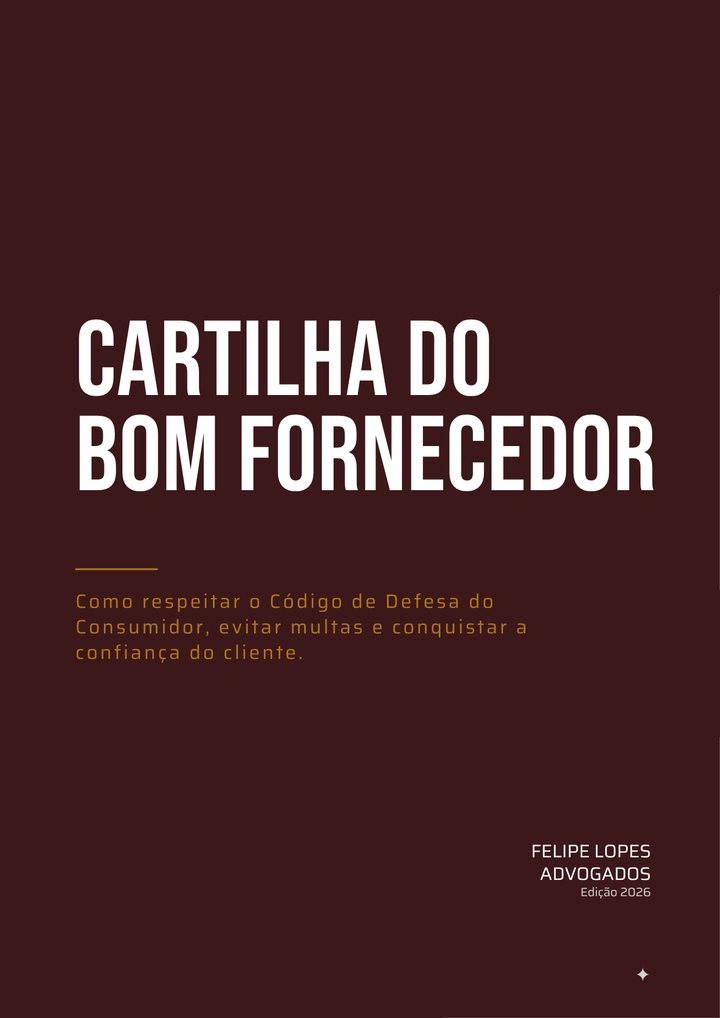
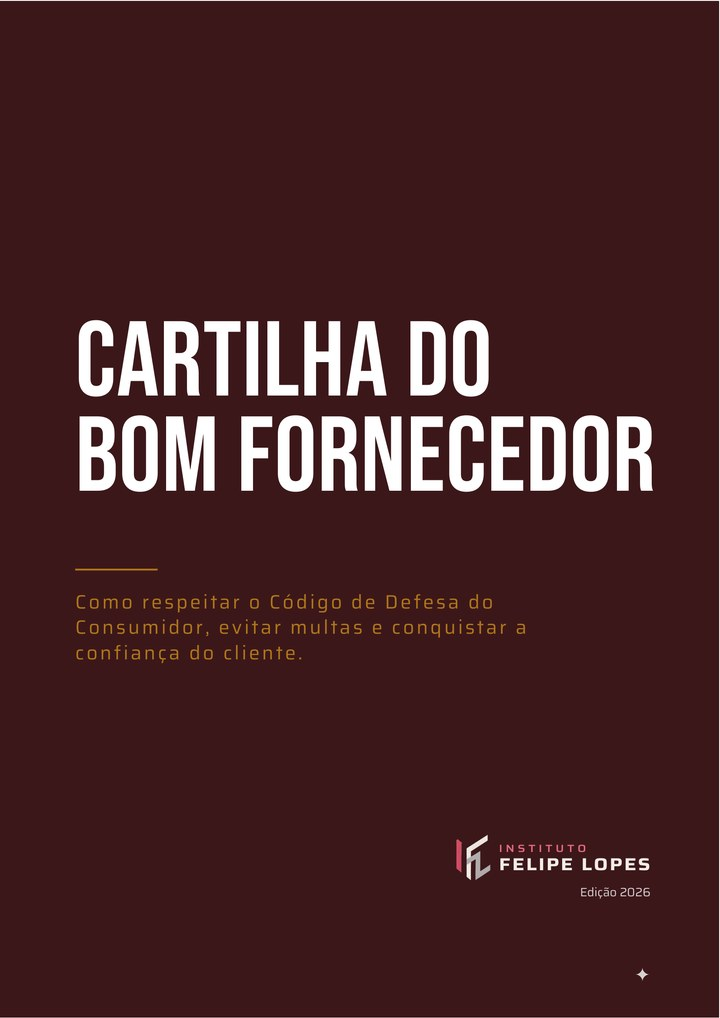
Capas do site com a marca Instituto Felipe Lopes no lugar dos autores
Claude-Session: https://claude.ai/code/session_01VYLCid41eqht9uMoaqD9Ab

diff --git a/CLAUDE.md b/CLAUDE.md
@@ -27,7 +27,7 @@ Para um novo PDF: adicionar em `PRODUTOS` (tipo `pdf`, campo `arquivo`), criar a
   - `termos.html`, `privacidade.html`: **minutas**, revisar antes de publicar.
 - `assets/estilo.css`: estilo único em **preto e vinho institucional #3A1A1D** (decidido em 11/10/2026): fundo da página preto com grade sutil (seções sem classe, hero, contato), seções lisas (`.nevoa`, `.escuro`) e rodapé no vinho #3A1A1D, cartões em preto avinhado, vermelho da logo nos botões (`--vinho` #b02a40), rosado da logo nos destaques (`--vinho-texto` #e56b7e), creme no texto, dourado em rótulos e botões de contorno. Títulos em Anton caixa alta, textos em Saira; as duas fontes ficam em `assets/fontes/`. Trechos destacados dos títulos usam `<span class="v">`.
 - `assets/app.js`: preços, janela de compra Pix, carrossel, menu do celular, formulários. Bloco `CONFIG` no topo: WhatsApp, e-mail, dados da empresa (razão social, CNPJ, endereço; exigidos pelo Decreto 7.962/2013) `dominiosReais` e `pagamento` (`"pix-no-site"` = QR Code na janela, pede CPF, atual; `"checkout"` = redireciona ao Mercado Pago). Ao trocar, mudar também `PAGAMENTO` no gerador das páginas (textos de FAQ, termos, privacidade e passos do simulador dependem do modo). Fora desses domínios a compra entra em modo pré-visualização (pagamento simulado).
-- `assets/img/`: logo do Instituto (adotada em 11/10/2026): `logo-ifl-original.png` (cores originais, para fundo claro), `logo-ifl.png` (versão para fundo escuro: F e nome em creme, vermelho em rosado), `logo-ifl-simbolo.png` (só o símbolo, no topo e no simulador), `og-imagem.jpg` (compartilhamento), favicon e apple-touch-icon com o símbolo sobre o vinho; capas (Manual renderizada do PDF final; Cartilha criada no mesmo padrão), fotos dos autores (Felipe e Lais recortadas de prints, resolução baixa).
+- `assets/img/`: logo do Instituto (adotada em 11/10/2026): `logo-ifl-original.png` (cores originais, para fundo claro), `logo-ifl.png` (versão para fundo escuro: F e nome em creme, vermelho em rosado), `logo-ifl-simbolo.png` (só o símbolo, no topo e no simulador), `og-imagem.jpg` (compartilhamento), favicon e apple-touch-icon com o símbolo sobre o vinho; capas (renderizadas da página 1 dos PDFs; desde 13/10/2026 as capas dos dois PDFs trazem só a marca Instituto Felipe Lopes no lugar dos nomes dos autores; ao trocar um PDF, regenerar a capa do site a partir dele), fotos dos autores (Felipe e Lais recortadas de prints, resolução baixa).
 - `simulador/index.html`: o simulador em modo `profissional` (exige chave). Aceita `?chave=` na URL.
 - `servidor/` (código do servidor na Cloudflare, ESM, sem dependências; nada dessa pasta é publicado como arquivo):
   - `worker.js`: entrada. Só `/api/*` passa por ele (`run_worker_first`); o resto é arquivo estático servido pela Cloudflare. Roteia `/api/criar-pagamento`, `/api/criar-pix`, `/api/status-pix`, `/api/webhook`, `/api/contato` para `rotas/`.
